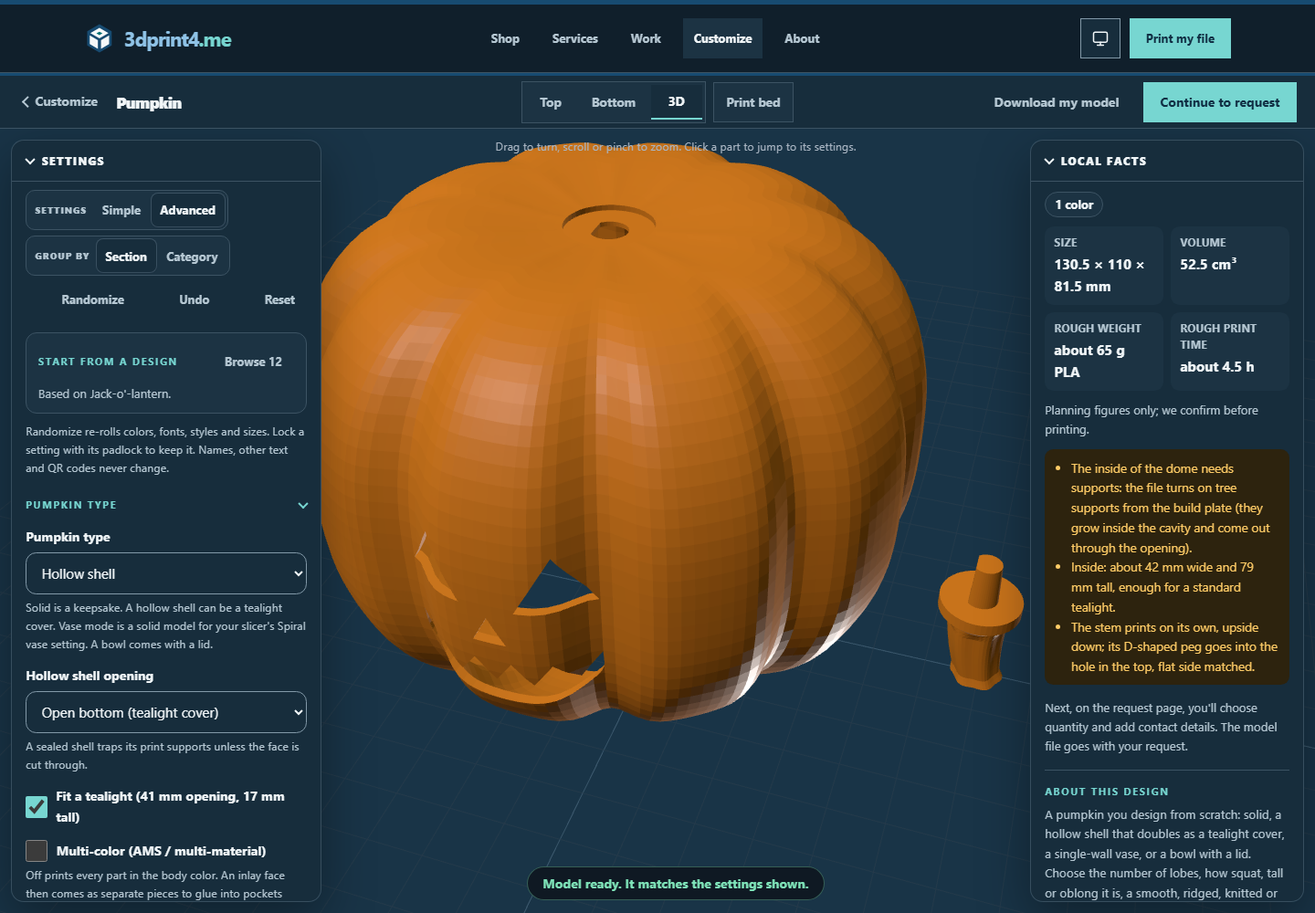
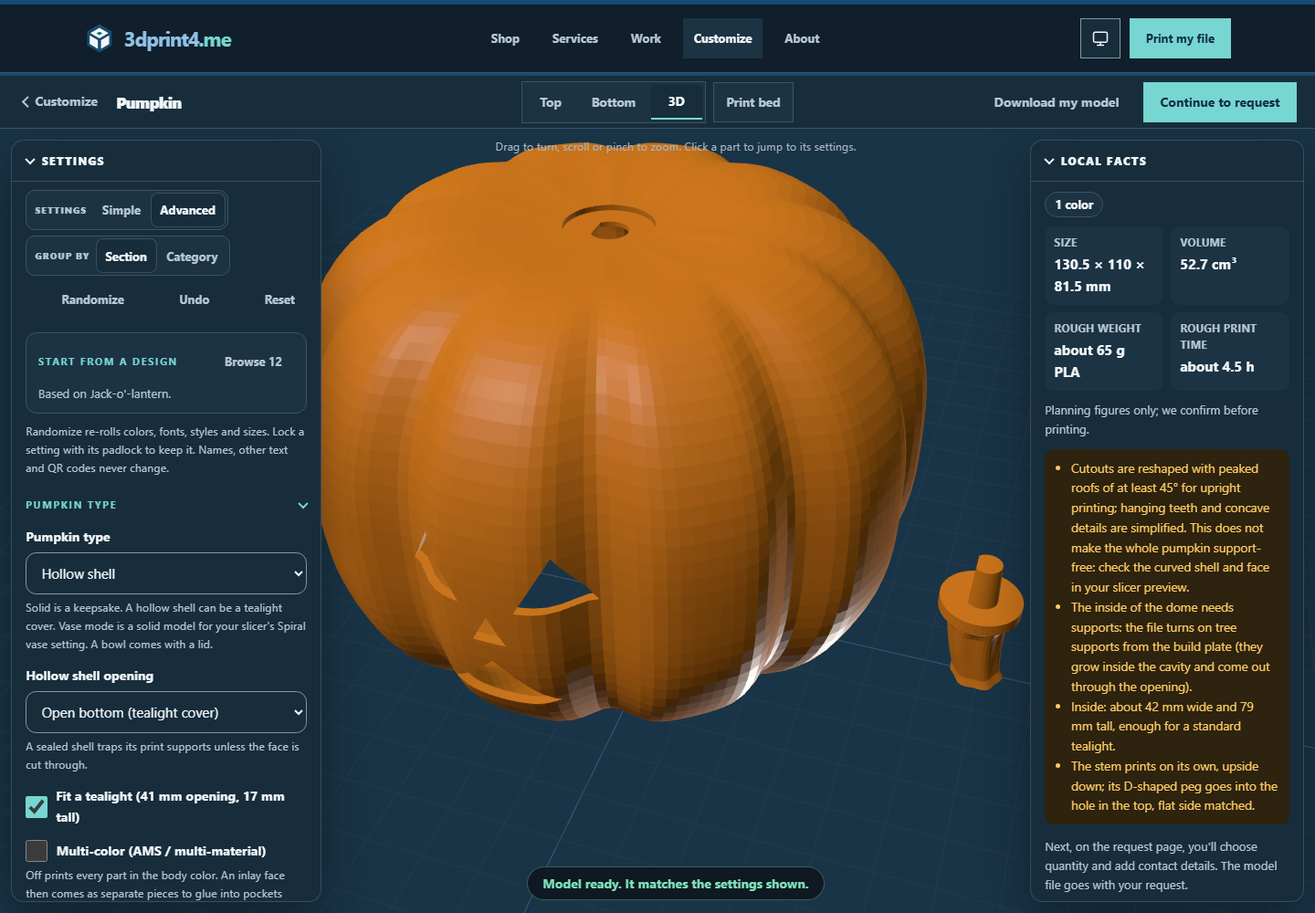
fix: preserve original cutout provenance for older pumpkin models

Changed region(s): [[0.7812, 0.496, 1.0, 0.992], [0.3438, 0.713, 0.4688, 0.775]]

diff --git a/public/index.html b/public/index.html
@@ -15,10 +15,10 @@
   <link rel="canonical" href="https://3dprint4.me/">
   <link rel="icon" href="/favicon.svg" type="image/svg+xml">
   <link rel="manifest" href="/manifest.webmanifest">
-  <link rel="stylesheet" href="/assets/evolution/evolution.css?v=b3e928dd366365e4">
+  <link rel="stylesheet" href="/assets/evolution/evolution.css?v=4224f5a9733c420b">
   <script type="application/ld+json">{"@context":"https://schema.org","@type":"ProfessionalService","name":"3dprint4.me","url":"https://3dprint4.me","email":"hello@3dprint4.me","founder":{"@type":"Person","name":"Jerrett Davis"},"areaServed":{"@type":"City","name":"Tulsa"},"description":"Custom 3D modeling, 3D printing, printer repair, tuning, consulting, and printer design.","sameAs":["https://www.printables.com/@Jdsfighter","https://cults3d.com/en/users/JerrettDavis/3d-models"]}</script>
-  <link rel="stylesheet" href="/assets/css/shared.css?v=b3e928dd366365e4">
-<link rel="stylesheet" href="/assets/css/shop.css?v=b3e928dd366365e4">
+  <link rel="stylesheet" href="/assets/css/shared.css?v=4224f5a9733c420b">
+<link rel="stylesheet" href="/assets/css/shop.css?v=4224f5a9733c420b">
 </head>
 <body>
   <svg class="svg-definitions" xmlns="http://www.w3.org/2000/svg" aria-hidden="true"><defs>
@@ -66,6 +66,6 @@
   <dialog class="project-dialog" id="project-dialog" aria-labelledby="project-detail-title"><button class="dialog-close icon-button" data-close type="button" aria-label="Close project"><svg class="icon"><use href="#i-close"/></svg></button><div id="project-detail"></div></dialog>
 <dialog class="inbox-dialog" id="inbox-dialog" aria-labelledby="inbox-title"><button class="dialog-close icon-button" data-close type="button" aria-label="Close demo inbox"><svg class="icon"><use href="#i-close"/></svg></button><div class="inbox-head"><p class="eyebrow">THE OTHER SIDE OF THE CONVERSATION</p><h2 id="inbox-title" tabindex="-1">Your local demo inbox.</h2><p>Only inquiries you save in this browser appear here. This is not a production owner dashboard.</p><div class="inbox-actions"><button class="button button-outline" id="export-inbox" type="button">Export inquiries</button><button class="text-link" id="clear-inbox" type="button">Clear local inquiries</button></div><div class="clear-confirm" id="clear-confirm" hidden><p>Delete all quick inquiries stored by this demo on this device?</p><button class="button button-accent" id="confirm-clear" type="button">Delete local inquiries</button><button class="button button-outline" id="cancel-clear" type="button">Keep them</button></div></div><div id="inbox-list" class="inbox-list"></div><div class="inbox-foot"><p><strong>What this demonstrates:</strong> outcome context, optional photo references, a short inquiry, local persistence, and a shareable public-project entry point.</p><p><strong>What it doesn't do:</strong> send email, upload files, take payment, or create a production lead. Files remain in memory until the inquiry is reset or the page is closed; saved records contain metadata only.</p><button class="text-link small-link" type="button" id="reset-all">Reset all demo data on this device</button><p class="reset-confirm" id="reset-confirm" hidden>Clear quick inquiries, drafts, the legacy builder's demo drafts, and theme preference? <button class="button button-accent" id="confirm-reset" type="button">Reset demo</button><button class="button button-outline" id="cancel-reset" type="button">Cancel</button></p></div></dialog>
   <noscript><div class="no-script">To ask about a project, <a href="mailto:hello@3dprint4.me">email hello@3dprint4.me</a>. You can also browse <a href="/portfolio.html">our work</a> and <a href="/services.html">services</a>.</div></noscript>
-  <script type="module" src="/assets/evolution/app.js?v=b3e928dd366365e4"></script>
+  <script type="module" src="/assets/evolution/app.js?v=4224f5a9733c420b"></script>
 </body>
 </html>

diff --git a/public/assets/js/order.js b/public/assets/js/order.js
@@ -1,23 +1,23 @@
-import "./site.js?v=b3e928dd366365e4";
-import { SITE_CONFIG, SERVICE_LABELS } from "./config.js?v=b3e928dd366365e4";
-import { buildRequestSummary, calculateEstimate, formatEstimate } from "./quote-engine.js?v=b3e928dd366365e4";
-import { toast } from "./site.js?v=b3e928dd366365e4";
-import { createProjectRequestClient } from "./order/client.js?v=b3e928dd366365e4";
-import { captureInquiryHandoff, takeInquiryText } from "./order/inquiry-handoff.js?v=b3e928dd366365e4";
-import { createOrderController } from "./order/controller.js?v=b3e928dd366365e4";
-import { createDraftStore } from "./order/draft-store.js?v=b3e928dd366365e4";
-import { createFileManager } from "./order/files.js?v=b3e928dd366365e4";
-import { activeProjectData, customizationFromHandoff, handoffPrefill, projectRequestFromData, readProjectForm } from "./order/model.js?v=b3e928dd366365e4";
-import { takeHandoff } from "./order/customize-handoff.js?v=b3e928dd366365e4";
-import { createStepValidator } from "./order/validation.js?v=b3e928dd366365e4";
-import { createOrderView } from "./order/view.js?v=b3e928dd366365e4";
-import { resolveModelLimits } from "./print-estimation/mesh.js?v=b3e928dd366365e4";
-import { modelFormat } from "./print-estimation/geometry.js?v=b3e928dd366365e4";
-import { isArchiveName } from "./print-estimation/archive.js?v=b3e928dd366365e4";
-import { createModelEstimateController } from "./print-estimation/controller.js?v=b3e928dd366365e4";
-import { createModelPanelView } from "./print-estimation/view.js?v=b3e928dd366365e4";
-import { createPrintEstimateClient, createPrivateEstimateFlow } from "./print-estimation/client.js?v=b3e928dd366365e4";
-import { packRequestSpecifications } from "./print-estimation/pack.js?v=b3e928dd366365e4";
+import "./site.js?v=4224f5a9733c420b";
+import { SITE_CONFIG, SERVICE_LABELS } from "./config.js?v=4224f5a9733c420b";
+import { buildRequestSummary, calculateEstimate, formatEstimate } from "./quote-engine.js?v=4224f5a9733c420b";
+import { toast } from "./site.js?v=4224f5a9733c420b";
+import { createProjectRequestClient } from "./order/client.js?v=4224f5a9733c420b";
+import { captureInquiryHandoff, takeInquiryText } from "./order/inquiry-handoff.js?v=4224f5a9733c420b";
+import { createOrderController } from "./order/controller.js?v=4224f5a9733c420b";
+import { createDraftStore } from "./order/draft-store.js?v=4224f5a9733c420b";
+import { createFileManager } from "./order/files.js?v=4224f5a9733c420b";
+import { activeProjectData, customizationFromHandoff, handoffPrefill, projectRequestFromData, readProjectForm } from "./order/model.js?v=4224f5a9733c420b";
+import { takeHandoff } from "./order/customize-handoff.js?v=4224f5a9733c420b";
+import { createStepValidator } from "./order/validation.js?v=4224f5a9733c420b";
+import { createOrderView } from "./order/view.js?v=4224f5a9733c420b";
+import { resolveModelLimits } from "./print-estimation/mesh.js?v=4224f5a9733c420b";
+import { modelFormat } from "./print-estimation/geometry.js?v=4224f5a9733c420b";
+import { isArchiveName } from "./print-estimation/archive.js?v=4224f5a9733c420b";
+import { createModelEstimateController } from "./print-estimation/controller.js?v=4224f5a9733c420b";
+import { createModelPanelView } from "./print-estimation/view.js?v=4224f5a9733c420b";
+import { createPrintEstimateClient, createPrivateEstimateFlow } from "./print-estimation/client.js?v=4224f5a9733c420b";
+import { packRequestSpecifications } from "./print-estimation/pack.js?v=4224f5a9733c420b";
 
 const form = document.querySelector("#project-form");
 addEventListener('hashchange',()=>{if(location.hash.startsWith('#inquiry='))location.reload();});

diff --git a/public/terms.html b/public/terms.html
@@ -4,8 +4,8 @@
   <meta charset="utf-8"><meta name="viewport" content="width=device-width, initial-scale=1">
   <meta name="description" content="Project terms for 3dprint4.me custom modeling, 3D printing, printer repair, tuning, consulting, and fabrication services.">
   <meta name="theme-color" content="#101f2b" media="(prefers-color-scheme: dark)"><meta name="theme-color" content="#ffffff" media="(prefers-color-scheme: light)"><meta name="robots" content="index,follow">
-  <title>Project terms — 3dprint4.me</title><link rel="canonical" href="https://3dprint4.me/terms.html"><link rel="icon" href="/favicon.svg" type="image/svg+xml"><link rel="stylesheet" href="/assets/css/site.css?v=b3e928dd366365e4">
-  <link rel="stylesheet" href="/assets/css/shared.css?v=b3e928dd366365e4">
+  <title>Project terms — 3dprint4.me</title><link rel="canonical" href="https://3dprint4.me/terms.html"><link rel="icon" href="/favicon.svg" type="image/svg+xml"><link rel="stylesheet" href="/assets/css/site.css?v=4224f5a9733c420b">
+  <link rel="stylesheet" href="/assets/css/shared.css?v=4224f5a9733c420b">
 </head>
 <body><div id="site-header"></div><main id="main"><header class="page-hero"><div class="container narrow"><nav class="breadcrumbs" aria-label="Breadcrumb"><a href="/">Home</a><span>Terms</span></nav><span class="eyebrow">Effective September 1, 2026</span><h1 class="h1">Project terms</h1><p class="lede">These are the default ground rules for quotes, custom design, printing, repair, consulting, payment, delivery, and submitted files.</p></div></header><section class="section"><article class="container narrow prose">
   <div class="notice"><strong>Project requests are not orders.</strong> Work begins only after scope, price, material, schedule, payment terms, and any important assumptions are confirmed in writing.</div>
@@ -22,4 +22,4 @@
   <h2>Limited correction promise</h2><p>If delivered work materially fails the written approved scope because of a fabrication or workmanship error, 3dprint4.me may repair, reprint, revise, or refund the affected portion at its option. This does not cover incorrect customer dimensions, undisclosed use, misuse, wear, heat, chemicals, impact, modification, third-party designs, customer-selected unsuitable material, or expectations outside the written scope.</p>
   <h2>Liability</h2><p>To the extent allowed by law, liability for a project is limited to the amount paid for the affected work. 3dprint4.me is not responsible for indirect, incidental, special, or consequential loss, lost data, lost profit, downtime, or damage caused by use outside the approved purpose. Nothing here excludes rights or liability that cannot legally be excluded.</p>
   <h2>Governing law and questions</h2><p>These terms are governed by Oklahoma law, without overriding applicable consumer protections. The parties should first try to resolve concerns directly and in good faith. Questions can be sent to <a href="mailto:hello@3dprint4.me">hello@3dprint4.me</a>.</p>
-</article></section></main><div id="site-footer"></div><script type="module" src="/assets/js/site.js?v=b3e928dd366365e4"></script></body></html>
+</article></section></main><div id="site-footer"></div><script type="module" src="/assets/js/site.js?v=4224f5a9733c420b"></script></body></html>

diff --git a/public/portfolio.html b/public/portfolio.html
@@ -5,8 +5,8 @@
   <meta name="description" content="Original 3D modeling and fabrication work by Jerrett Davis, including custom keychains, mechanical test equipment, fitted holders, electronics mounts, and published models.">
   <meta name="theme-color" content="#101f2b" media="(prefers-color-scheme: dark)"><meta name="theme-color" content="#ffffff" media="(prefers-color-scheme: light)">
   <meta property="og:title" content="Designed by us — 3dprint4.me"><meta property="og:description" content="Original CAD, printable products, mechanical assemblies, and fitted hardware built around real constraints."><meta property="og:type" content="website"><meta property="og:url" content="https://3dprint4.me/portfolio.html"><meta property="og:image" content="https://3dprint4.me/assets/images/social-card.png"><meta property="og:image:width" content="1200"><meta property="og:image:height" content="630"><meta property="og:image:alt" content="3dprint4.me — Ideas into parts. Problems into fixes."><meta name="twitter:card" content="summary_large_image"><meta name="twitter:image" content="https://3dprint4.me/assets/images/social-card.png">
-  <title>Designed by us — 3dprint4.me</title><link rel="canonical" href="https://3dprint4.me/portfolio.html"><link rel="icon" href="/favicon.svg" type="image/svg+xml"><link rel="manifest" href="/manifest.webmanifest"><link rel="stylesheet" href="/assets/css/site.css?v=b3e928dd366365e4">
-  <link rel="stylesheet" href="/assets/css/shared.css?v=b3e928dd366365e4">
+  <title>Designed by us — 3dprint4.me</title><link rel="canonical" href="https://3dprint4.me/portfolio.html"><link rel="icon" href="/favicon.svg" type="image/svg+xml"><link rel="manifest" href="/manifest.webmanifest"><link rel="stylesheet" href="/assets/css/site.css?v=4224f5a9733c420b">
+  <link rel="stylesheet" href="/assets/css/shared.css?v=4224f5a9733c420b">
 </head>
 <body>
   <div id="site-header"></div>
@@ -43,6 +43,6 @@
 
     <section class="section compact"><div class="container"><div class="cta-panel"><span class="eyebrow">Your project does not need to resemble these</span><h2 class="h2">Show me the object, constraint, or annoyance.</h2><p class="lede">A ruler photo, a public model link, a dead printer, a napkin sketch, or a clear explanation is enough to begin.</p><div class="action-row"><a class="button primary" href="/order.html">Start my project</a><a class="button secondary" href="https://www.printables.com/@Jdsfighter" target="_blank" rel="noopener">Full Printables profile</a><a class="button secondary" href="https://cults3d.com/en/users/JerrettDavis/3d-models" target="_blank" rel="noopener">Full Cults3D profile</a></div></div></div></section>
   </main>
-  <div id="site-footer"></div><script type="module" src="/assets/js/site.js?v=b3e928dd366365e4"></script>
+  <div id="site-footer"></div><script type="module" src="/assets/js/site.js?v=4224f5a9733c420b"></script>
 </body>
 </html>

diff --git a/public/privacy.html b/public/privacy.html
@@ -4,8 +4,8 @@
   <meta charset="utf-8"><meta name="viewport" content="width=device-width, initial-scale=1">
   <meta name="description" content="Privacy notice for 3dprint4.me project requests, uploaded design files, contact details, payments, and service providers.">
   <meta name="theme-color" content="#101f2b" media="(prefers-color-scheme: dark)"><meta name="theme-color" content="#ffffff" media="(prefers-color-scheme: light)"><meta name="robots" content="index,follow">
-  <title>Privacy notice — 3dprint4.me</title><link rel="canonical" href="https://3dprint4.me/privacy.html"><link rel="icon" href="/favicon.svg" type="image/svg+xml"><link rel="stylesheet" href="/assets/css/site.css?v=b3e928dd366365e4">
-  <link rel="stylesheet" href="/assets/css/shared.css?v=b3e928dd366365e4">
+  <title>Privacy notice — 3dprint4.me</title><link rel="canonical" href="https://3dprint4.me/privacy.html"><link rel="icon" href="/favicon.svg" type="image/svg+xml"><link rel="stylesheet" href="/assets/css/site.css?v=4224f5a9733c420b">
+  <link rel="stylesheet" href="/assets/css/shared.css?v=4224f5a9733c420b">
 </head>
 <body><div id="site-header"></div><main id="main"><header class="page-hero"><div class="container narrow"><nav class="breadcrumbs" aria-label="Breadcrumb"><a href="/">Home</a><span>Privacy</span></nav><span class="eyebrow">Effective October 24, 2026</span><h1 class="h1">Privacy notice</h1><p class="lede">This explains what 3dprint4.me collects when you ask about or order custom work, why it is needed, and the choices you have.</p></div></header><section class="section"><article class="container narrow prose">
   <div class="notice"><strong>Plain-language summary:</strong> project information is used to quote and complete your work. Uploaded files are private by default. They are not sold, used to train public AI models, or published without separate permission.</div>
@@ -24,4 +24,4 @@
   <h2>Your choices</h2><p>You may ask what project information is held, correct it, withdraw an unaccepted request, or request deletion when retention is not legally required. Send the request from the email used for the project and include the project ID when available.</p>
   <h2>Children</h2><p>The service is not directed to children under 13. A parent or guardian should submit any project involving a minor.</p>
   <h2>Changes</h2><p>This notice may be updated as integrations, business practices, or legal requirements change. The effective date at the top identifies the current version.</p>
-</article></section></main><div id="site-footer"></div><script type="module" src="/assets/js/site.js?v=b3e928dd366365e4"></script></body></html>
+</article></section></main><div id="site-footer"></div><script type="module" src="/assets/js/site.js?v=4224f5a9733c420b"></script></body></html>

diff --git a/public/services.html b/public/services.html
@@ -5,8 +5,8 @@
   <meta name="description" content="Custom 3D modeling, printing, printer repair, tuning, consulting, and custom printer design services from 3dprint4.me in Tulsa.">
   <meta name="theme-color" content="#101f2b" media="(prefers-color-scheme: dark)"><meta name="theme-color" content="#ffffff" media="(prefers-color-scheme: light)">
   <meta property="og:title" content="Services and pricing approach — 3dprint4.me"><meta property="og:description" content="Design, printing, repair, tuning, consulting, and printer design with useful rough pricing before review."><meta property="og:type" content="website"><meta property="og:url" content="https://3dprint4.me/services.html"><meta property="og:image" content="https://3dprint4.me/assets/images/social-card.png"><meta property="og:image:width" content="1200"><meta property="og:image:height" content="630"><meta property="og:image:alt" content="3dprint4.me — Ideas into parts. Problems into fixes."><meta name="twitter:card" content="summary_large_image"><meta name="twitter:image" content="https://3dprint4.me/assets/images/social-card.png">
-  <title>Services and pricing approach — 3dprint4.me</title><link rel="canonical" href="https://3dprint4.me/services.html"><link rel="icon" href="/favicon.svg" type="image/svg+xml"><link rel="manifest" href="/manifest.webmanifest"><link rel="stylesheet" href="/assets/css/site.css?v=b3e928dd366365e4">
-  <link rel="stylesheet" href="/assets/css/shared.css?v=b3e928dd366365e4">
+  <title>Services and pricing approach — 3dprint4.me</title><link rel="canonical" href="https://3dprint4.me/services.html"><link rel="icon" href="/favicon.svg" type="image/svg+xml"><link rel="manifest" href="/manifest.webmanifest"><link rel="stylesheet" href="/assets/css/site.css?v=4224f5a9733c420b">
+  <link rel="stylesheet" href="/assets/css/shared.css?v=4224f5a9733c420b">
 </head>
 <body>
   <div id="site-header"></div>
@@ -27,6 +27,6 @@
 
     <section class="section compact"><div class="container"><div class="cta-panel"><span class="eyebrow">Ready to make this concrete?</span><h2 class="h2">Choose the closest service and add what you already know.</h2><p class="lede">Files are optional for design, repair, and consulting. Print requests need either a model upload or an accessible link.</p><div class="action-row"><a class="button primary" href="/order.html">Start a project</a><a class="button secondary" href="mailto:hello@3dprint4.me">Ask a quick question</a></div></div></div></section>
   </main>
-  <div id="site-footer"></div><script type="module" src="/assets/js/site.js?v=b3e928dd366365e4"></script>
+  <div id="site-footer"></div><script type="module" src="/assets/js/site.js?v=4224f5a9733c420b"></script>
 </body>
 </html>

diff --git a/public/404.html b/public/404.html
@@ -1,2 +1,2 @@
-<!doctype html><html lang="en"><head><meta charset="utf-8"><meta name="viewport" content="width=device-width, initial-scale=1"><meta name="description" content="The requested 3dprint4.me page was not found. Return home or start a custom 3D modeling, printing, or repair project."><meta name="robots" content="noindex"><meta name="theme-color" content="#101f2b" media="(prefers-color-scheme: dark)"><meta name="theme-color" content="#ffffff" media="(prefers-color-scheme: light)"><title>Page not found — 3dprint4.me</title><link rel="icon" href="/favicon.svg" type="image/svg+xml"><link rel="stylesheet" href="/assets/css/site.css?v=b3e928dd366365e4">  <link rel="stylesheet" href="/assets/css/shared.css?v=b3e928dd366365e4">
-</head><body><div id="site-header"></div><main id="main" class="not-found"><div><div class="not-found-code" aria-hidden="true">404</div><span class="eyebrow">That layer never printed</span><h1 class="h1">This page does not exist.</h1><p class="lede">The link may be old, incomplete, or shaped like a support-free overhang.</p><div class="action-row" style="justify-content:center"><a class="button primary" href="/">Back home</a><a class="button secondary" href="/order.html">Start a project</a></div></div></main><div id="site-footer"></div><script type="module" src="/assets/js/site.js?v=b3e928dd366365e4"></script></body></html>
+<!doctype html><html lang="en"><head><meta charset="utf-8"><meta name="viewport" content="width=device-width, initial-scale=1"><meta name="description" content="The requested 3dprint4.me page was not found. Return home or start a custom 3D modeling, printing, or repair project."><meta name="robots" content="noindex"><meta name="theme-color" content="#101f2b" media="(prefers-color-scheme: dark)"><meta name="theme-color" content="#ffffff" media="(prefers-color-scheme: light)"><title>Page not found — 3dprint4.me</title><link rel="icon" href="/favicon.svg" type="image/svg+xml"><link rel="stylesheet" href="/assets/css/site.css?v=4224f5a9733c420b">  <link rel="stylesheet" href="/assets/css/shared.css?v=4224f5a9733c420b">
+</head><body><div id="site-header"></div><main id="main" class="not-found"><div><div class="not-found-code" aria-hidden="true">404</div><span class="eyebrow">That layer never printed</span><h1 class="h1">This page does not exist.</h1><p class="lede">The link may be old, incomplete, or shaped like a support-free overhang.</p><div class="action-row" style="justify-content:center"><a class="button primary" href="/">Back home</a><a class="button secondary" href="/order.html">Start a project</a></div></div></main><div id="site-footer"></div><script type="module" src="/assets/js/site.js?v=4224f5a9733c420b"></script></body></html>

diff --git a/public/order.html b/public/order.html
@@ -5,8 +5,8 @@
   <meta name="description" content="Start a custom 3D modeling, printing, printer repair, tuning, or fabrication project and get a useful rough estimate.">
   <meta name="theme-color" content="#101f2b" media="(prefers-color-scheme: dark)"><meta name="theme-color" content="#ffffff" media="(prefers-color-scheme: light)">
   <meta property="og:title" content="Start a project — 3dprint4.me"><meta property="og:description" content="Share a file, link, broken printer, sketch, or idea. Get a rough planning range before a human review."><meta property="og:type" content="website"><meta property="og:url" content="https://3dprint4.me/order.html"><meta property="og:image" content="https://3dprint4.me/assets/images/social-card.png"><meta property="og:image:width" content="1200"><meta property="og:image:height" content="630"><meta property="og:image:alt" content="3dprint4.me — Ideas into parts. Problems into fixes."><meta name="twitter:card" content="summary_large_image"><meta name="twitter:image" content="https://3dprint4.me/assets/images/social-card.png">
-  <title>Start a project — 3dprint4.me</title><link rel="canonical" href="https://3dprint4.me/order.html"><link rel="icon" href="/favicon.svg" type="image/svg+xml"><link rel="manifest" href="/manifest.webmanifest"><link rel="stylesheet" href="/assets/css/site.css?v=b3e928dd366365e4">
-  <link rel="stylesheet" href="/assets/css/shared.css?v=b3e928dd366365e4">
+  <title>Start a project — 3dprint4.me</title><link rel="canonical" href="https://3dprint4.me/order.html"><link rel="icon" href="/favicon.svg" type="image/svg+xml"><link rel="manifest" href="/manifest.webmanifest"><link rel="stylesheet" href="/assets/css/site.css?v=4224f5a9733c420b">
+  <link rel="stylesheet" href="/assets/css/shared.css?v=4224f5a9733c420b">
 </head>
 <body>
   <div id="site-header"></div>
@@ -105,6 +105,6 @@
       <aside class="estimate-sidebar" aria-labelledby="estimate-title"><div><h2 id="estimate-title">Rough planning range</h2><div class="estimate-amount" id="estimate-amount">$15–$25</div><div class="estimate-confidence" id="estimate-confidence">Planning range, confirmed after review</div></div><dl class="estimate-list" id="estimate-list"></dl><p class="estimate-note">Not a checkout total. Tax, shipping, third-party parts, licensing, unusual packing, and scope changes are confirmed separately.</p></aside>
     </div>
   </main>
-  <div id="site-footer"></div><script type="module" src="/assets/js/order.js?v=b3e928dd366365e4"></script>
+  <div id="site-footer"></div><script type="module" src="/assets/js/order.js?v=4224f5a9733c420b"></script>
 </body>
 </html>

diff --git a/public/about.html b/public/about.html
@@ -5,8 +5,8 @@
   <meta name="description" content="About Jerrett Davis and 3dprint4.me: a Tulsa software engineer, maker, CAD designer, printer builder, and practical problem solver.">
   <meta name="theme-color" content="#101f2b" media="(prefers-color-scheme: dark)"><meta name="theme-color" content="#ffffff" media="(prefers-color-scheme: light)">
   <meta property="og:title" content="About Jerrett — 3dprint4.me"><meta property="og:description" content="Software discipline, mechanical curiosity, and practical fabrication in Tulsa."><meta property="og:type" content="profile"><meta property="og:url" content="https://3dprint4.me/about.html"><meta property="og:image" content="https://3dprint4.me/assets/images/social-card.png"><meta property="og:image:width" content="1200"><meta property="og:image:height" content="630"><meta property="og:image:alt" content="3dprint4.me — Ideas into parts. Problems into fixes."><meta name="twitter:card" content="summary_large_image"><meta name="twitter:image" content="https://3dprint4.me/assets/images/social-card.png">
-  <title>About Jerrett — 3dprint4.me</title><link rel="canonical" href="https://3dprint4.me/about.html"><link rel="icon" href="/favicon.svg" type="image/svg+xml"><link rel="manifest" href="/manifest.webmanifest"><link rel="stylesheet" href="/assets/css/site.css?v=b3e928dd366365e4">
-  <link rel="stylesheet" href="/assets/css/shared.css?v=b3e928dd366365e4">
+  <title>About Jerrett — 3dprint4.me</title><link rel="canonical" href="https://3dprint4.me/about.html"><link rel="icon" href="/favicon.svg" type="image/svg+xml"><link rel="manifest" href="/manifest.webmanifest"><link rel="stylesheet" href="/assets/css/site.css?v=4224f5a9733c420b">
+  <link rel="stylesheet" href="/assets/css/shared.css?v=4224f5a9733c420b">
 </head>
 <body>
   <div id="site-header"></div>
@@ -48,6 +48,6 @@
 
     <section class="section compact surface"><div class="container"><div class="cta-panel"><span class="eyebrow">A good first message is simple</span><h2 class="h2">“Here is the thing. Here is what is wrong. Here is what I need it to do.”</h2><p class="lede">Add dimensions, photos, files, or a model link when you have them. The rest can be worked out.</p><a class="button primary" href="/order.html">Build a project request</a></div></div></section>
   </main>
-  <div id="site-footer"></div><script type="module" src="/assets/js/site.js?v=b3e928dd366365e4"></script>
+  <div id="site-footer"></div><script type="module" src="/assets/js/site.js?v=4224f5a9733c420b"></script>
 </body>
 </html>

diff --git a/public/assets/js/customize/generators/display-sign.js b/public/assets/js/customize/generators/display-sign.js
@@ -5,15 +5,15 @@
 // five-color palette. The logo is never a parameter: the page traces it in the browser (snapped to
 // the palette) and passes only the outline layers to the build (ctx.imageLayers or
 // ctx.imageContours), so it never reaches drafts, the hand-off record or the server.
-import { contrastRatio } from "../color.js?v=b3e928dd366365e4";
-import { fontSchema, fontRule, FONT_SPEC, FONT_ACK_KEY, locationFontField } from "../fonts.js?v=b3e928dd366365e4";
-import { qrModuleEstimate } from "../qr.js?v=b3e928dd366365e4";
+import { contrastRatio } from "../color.js?v=4224f5a9733c420b";
+import { fontSchema, fontRule, FONT_SPEC, FONT_ACK_KEY, locationFontField } from "../fonts.js?v=4224f5a9733c420b";
+import { qrModuleEstimate } from "../qr.js?v=4224f5a9733c420b";
 import {
   BOARD_CLEAR_MM, BOARD_H, BOARD_W, CARD_POCKET_MARGIN_MM, COLOR_SLOTS, COORD, DECO_KINDS, DECO_SLOTS,
   HOLDER_TEXT_SLOTS, HOLDER_WALL_MM, MIN_BODY_MM, PALETTE_KEYS, RADIUS_KINDS, STROKE_KINDS, TEXT_SLOTS,
   decoKeys, hasDeco, hasHolderText, hasText, holderLayout, holderTextKeys, pocketWidthMm, qrPayload, slotHex, textKeys, wantsHolder, wantsSign
-} from "../sign.js?v=b3e928dd366365e4";
-import { DESIGNS, PRESETS } from "./display-sign-designs.js?v=b3e928dd366365e4";
+} from "../sign.js?v=4224f5a9733c420b";
+import { DESIGNS, PRESETS } from "./display-sign-designs.js?v=4224f5a9733c420b";
 
 const EPS = 1e-6;
 const round1 = v => Math.round(v * 10) / 10;

diff --git a/public/assets/js/customize/generators/pumpkin.js b/public/assets/js/customize/generators/pumpkin.js
@@ -3,8 +3,8 @@
 // smooth, ridged, knitted or lattice; with a cute, classic or custom face (inlay, engraved or cut
 // through); and a stem printed attached or as a separate peg-in part. The geometry lives in
 // pumpkin-shape.js (shared) and customizer/generators/pumpkin/build.js (worker only).
-import { contrastRatio } from "../color.js?v=b3e928dd366365e4";
-import { baseCut, bottomHoleRadius, faceBox, geometry, HOLE_MOUTH_GAP_MM, maxBottomHolePct, maxHollowConcavity, minTealightDiameter, splitCut, TEALIGHT_HEIGHT_MM, TEALIGHT_OPENING_MM, tealightFit } from "../pumpkin-shape.js?v=b3e928dd366365e4";
+import { contrastRatio } from "../color.js?v=4224f5a9733c420b";
+import { baseCut, bottomHoleRadius, faceBox, geometry, HOLE_MOUTH_GAP_MM, maxBottomHolePct, maxHollowConcavity, minTealightDiameter, splitCut, TEALIGHT_HEIGHT_MM, TEALIGHT_OPENING_MM, tealightFit } from "../pumpkin-shape.js?v=4224f5a9733c420b";
 
 const EPS = 1e-6;
 const MIN_WALL = 1.2;           // hollow shells
@@ -281,6 +281,7 @@ const DESIGNS = [
 export default {
   id: "pumpkin",
   version: 2,
+  versionDefaults: { 1: { optimize_cutouts: false } },
   title: "Pumpkin",
   blurb: "Design a pumpkin: solid, hollow tealight cover, vase or bowl with a lid, with a face, knit or lattice surface, and a plug-in or attached stem.",
   category: "seasonal",

diff --git a/public/assets/js/customize/registry.js b/public/assets/js/customize/registry.js
@@ -1,9 +1,9 @@
-import routeShield from "./generators/route-shield.js?v=b3e928dd366365e4";
-import wifiTag from "./generators/wifi-tag.js?v=b3e928dd366365e4";
-import ratingCard from "./generators/rating-card.js?v=b3e928dd366365e4";
-import namePlate from "./generators/name-plate.js?v=b3e928dd366365e4";
-import pumpkin from "./generators/pumpkin.js?v=b3e928dd366365e4";
-import displaySign from "./generators/display-sign.js?v=b3e928dd366365e4";
+import routeShield from "./generators/route-shield.js?v=4224f5a9733c420b";
+import wifiTag from "./generators/wifi-tag.js?v=4224f5a9733c420b";
+import ratingCard from "./generators/rating-card.js?v=4224f5a9733c420b";
+import namePlate from "./generators/name-plate.js?v=4224f5a9733c420b";
+import pumpkin from "./generators/pumpkin.js?v=4224f5a9733c420b";
+import displaySign from "./generators/display-sign.js?v=4224f5a9733c420b";
 export const GENERATORS = Object.freeze({ [routeShield.id]: routeShield, [wifiTag.id]: wifiTag, [ratingCard.id]: ratingCard, [namePlate.id]: namePlate, [pumpkin.id]: pumpkin, [displaySign.id]: displaySign });
 export const getGenerator = id => Object.prototype.hasOwnProperty.call(GENERATORS, id) ? GENERATORS[id] : undefined;
 export const listPublicGenerators = () => Object.values(GENERATORS).filter(g => g.rights.publishable);
